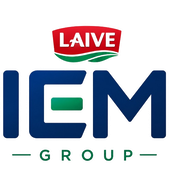
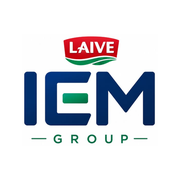
Add files via upload

diff --git a/index.html b/index.html
@@ -91,11 +91,14 @@
                     <button type="button" class="header-menu-item" role="menuitem" data-admin-goto="clientes">
                         <span class="hmi-icon">👤</span><span class="hmi-label">Clientes</span>
                     </button>
+                    <button type="button" class="header-menu-item" role="menuitem" data-admin-goto="pedidos">
+                        <span class="hmi-icon">🛒</span><span class="hmi-label">Pedidos sugeridos</span>
+                    </button>
                     <button type="button" class="header-menu-item" role="menuitem" data-admin-goto="sesiones">
                         <span class="hmi-icon">👥</span><span class="hmi-label">Sesiones</span>
                     </button>
                     <div class="header-menu-footer">
-                        <span class="version">v3.99c · Admin</span>
+                        <span class="version">v3.99d · Admin</span>
                     </div>
                 </div>
             </div>

diff --git a/style.css b/style.css
@@ -304,11 +304,15 @@
         .header .logo {
             display: flex;
             align-items: center;
-            background: #ffffff;
+            background: #ffffff !important;
             padding: 0.3rem 0.55rem;
             border-radius: 12px;
             border: 1px solid rgba(10, 120, 76, 0.35);
             box-shadow: 0 2px 10px rgba(10, 120, 76, 0.12);
+        }
+        /* Logo siempre legible en tema oscuro y claro */
+        .header .logo img {
+            background: #ffffff;
         }
         .header .logo img {
             height: 38px;

diff --git a/sw.js b/sw.js
@@ -1,5 +1,5 @@
 /* IEM Inventario — SW optimizado: precache UI, red prioritaria en JS/CSS */
-const CACHE = 'iem-inventario-v3.99c';
+const CACHE = 'iem-inventario-v3.99d';
 const PRECACHE = [
   './',
   './index.html',
